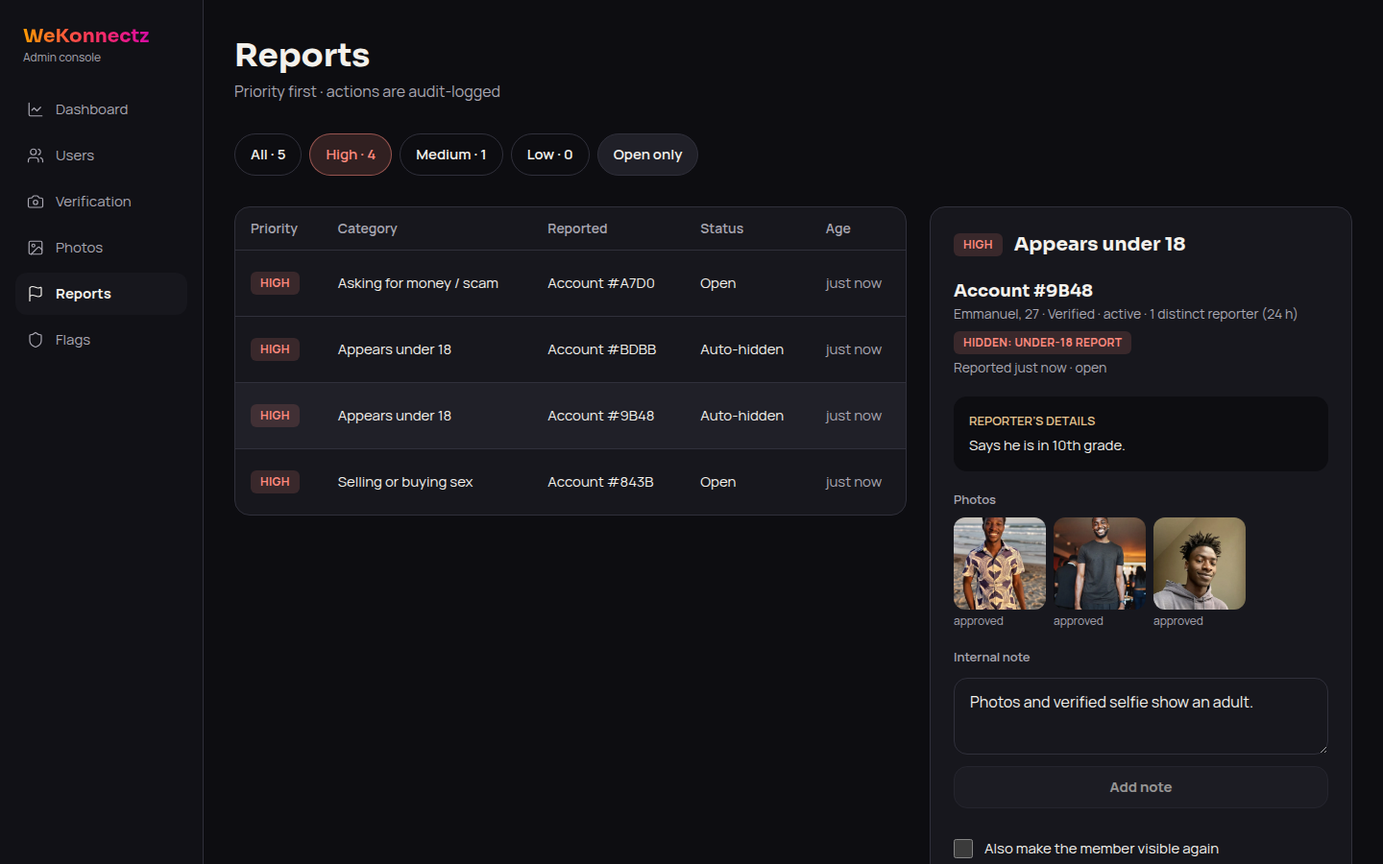
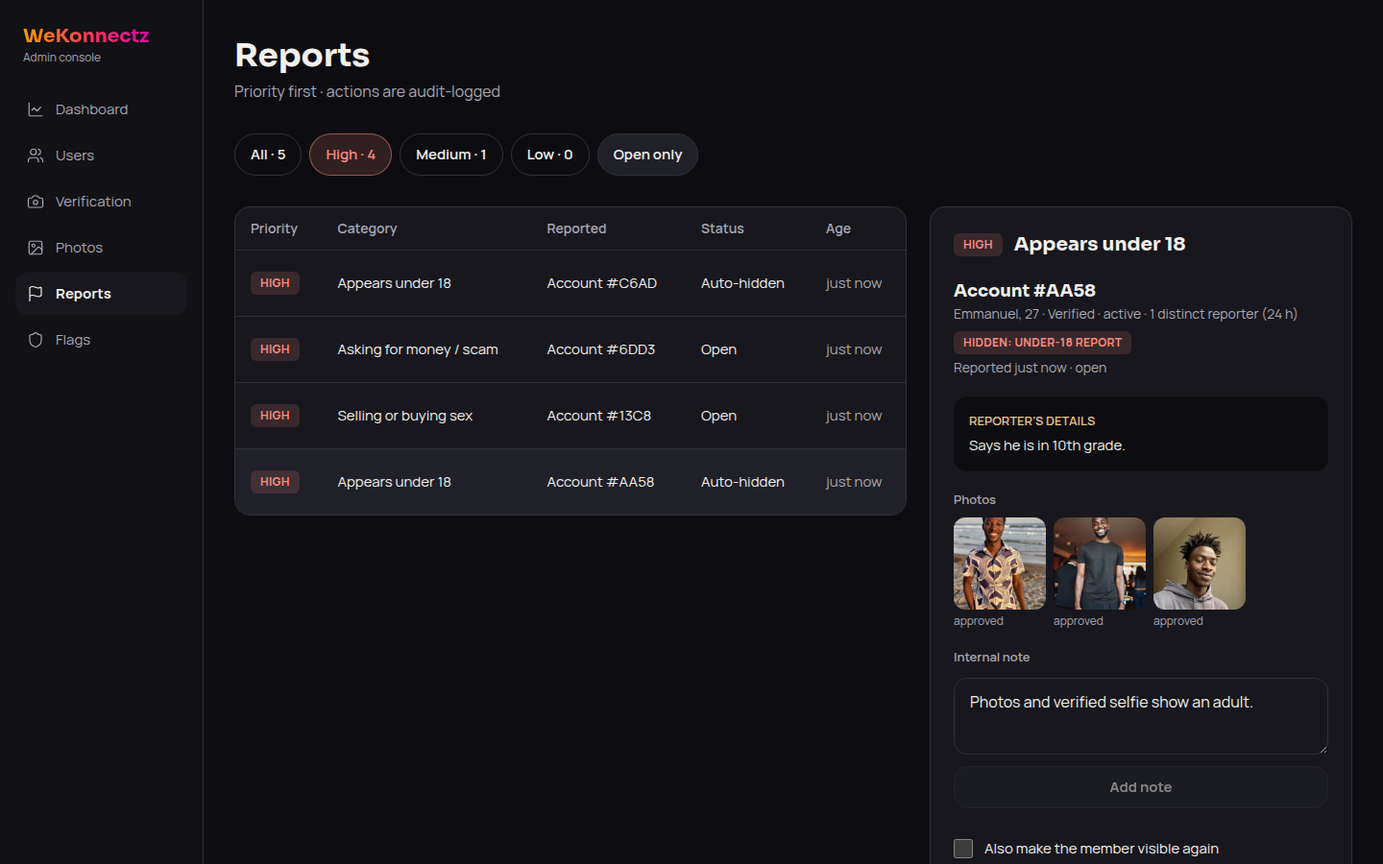
Phase 5: fix self-audit round 2
Blocks allowed for any member again (visibility recorded for the report path);
reported main photo kept as main while its report is open; reports and notes
survive account deletion; member filter in SQL; profile refresh after a report.

Claude-Session: https://claude.ai/code/session_01RWv5U5Jeaj4LAzyACAoRM2

diff --git a/lib/supabase/database.types.ts b/lib/supabase/database.types.ts
@@ -77,13 +77,13 @@ export type Database = {
                   ]
                 },"blocks": {
                   Row: {
-                    "blocked_id": string,"blocker_id": string,"created_at": string,"id": string
+                    "blocked_id": string,"blocker_id": string,"created_at": string,"id": string,"target_visible": boolean
                   }
                   Insert: {
-                    "blocked_id": string,"blocker_id": string,"created_at"?: string,"id"?: string
+                    "blocked_id": string,"blocker_id": string,"created_at"?: string,"id"?: string,"target_visible"?: boolean
                   }
                   Update: {
-                    "blocked_id"?: string,"blocker_id"?: string,"created_at"?: string,"id"?: string
+                    "blocked_id"?: string,"blocker_id"?: string,"created_at"?: string,"id"?: string,"target_visible"?: boolean
                   }
                   Relationships: [
                     {
@@ -299,13 +299,13 @@ isOneToOne: true
                   ]
                 },"report_notes": {
                   Row: {
-                    "author_id": string,"created_at": string,"id": string,"note": string,"report_id": string
+                    "author_id": string | null,"created_at": string,"id": string,"note": string,"report_id": string
                   }
                   Insert: {
-                    "author_id": string,"created_at"?: string,"id"?: string,"note": string,"report_id": string
+                    "author_id"?: string | null,"created_at"?: string,"id"?: string,"note": string,"report_id": string
                   }
                   Update: {
-                    "author_id"?: string,"created_at"?: string,"id"?: string,"note"?: string,"report_id"?: string
+                    "author_id"?: string | null,"created_at"?: string,"id"?: string,"note"?: string,"report_id"?: string
                   }
                   Relationships: [
                     {
@@ -324,13 +324,13 @@ isOneToOne: false
                   ]
                 },"reports": {
                   Row: {
-                    "category": Database["public"]['Enums']["report_category"],"created_at": string,"description": string | null,"id": string,"photo_id": string | null,"priority": Database["public"]['Enums']["report_priority"],"reported_user_id": string,"reporter_id": string,"reviewed_at": string | null,"reviewed_by": string | null,"status": Database["public"]['Enums']["report_status"]
+                    "category": Database["public"]['Enums']["report_category"],"created_at": string,"description": string | null,"id": string,"photo_id": string | null,"priority": Database["public"]['Enums']["report_priority"],"reported_user_id": string,"reporter_id": string | null,"reviewed_at": string | null,"reviewed_by": string | null,"status": Database["public"]['Enums']["report_status"]
                   }
                   Insert: {
-                    "category": Database["public"]['Enums']["report_category"],"created_at"?: string,"description"?: string | null,"id"?: string,"photo_id"?: string | null,"priority": Database["public"]['Enums']["report_priority"],"reported_user_id": string,"reporter_id": string,"reviewed_at"?: string | null,"reviewed_by"?: string | null,"status"?: Database["public"]['Enums']["report_status"]
+                    "category": Database["public"]['Enums']["report_category"],"created_at"?: string,"description"?: string | null,"id"?: string,"photo_id"?: string | null,"priority": Database["public"]['Enums']["report_priority"],"reported_user_id": string,"reporter_id"?: string | null,"reviewed_at"?: string | null,"reviewed_by"?: string | null,"status"?: Database["public"]['Enums']["report_status"]
                   }
                   Update: {
-                    "category"?: Database["public"]['Enums']["report_category"],"created_at"?: string,"description"?: string | null,"id"?: string,"photo_id"?: string | null,"priority"?: Database["public"]['Enums']["report_priority"],"reported_user_id"?: string,"reporter_id"?: string,"reviewed_at"?: string | null,"reviewed_by"?: string | null,"status"?: Database["public"]['Enums']["report_status"]
+                    "category"?: Database["public"]['Enums']["report_category"],"created_at"?: string,"description"?: string | null,"id"?: string,"photo_id"?: string | null,"priority"?: Database["public"]['Enums']["report_priority"],"reported_user_id"?: string,"reporter_id"?: string | null,"reviewed_at"?: string | null,"reviewed_by"?: string | null,"status"?: Database["public"]['Enums']["report_status"]
                   }
                   Relationships: [
                     {
@@ -689,7 +689,7 @@ isOneToOne: false
 { Args: { "p_report_id": string }; Returns: Json
                            },
 "staff_reports_queue":
-{ Args: { "p_include_closed"?: boolean,"p_limit"?: number }; Returns: {
+{ Args: { "p_include_closed"?: boolean,"p_limit"?: number,"p_member"?: string }; Returns: {
               "category": Database["public"]['Enums']["report_category"],"created_at": string,"priority": Database["public"]['Enums']["report_priority"],"report_id": string,"reported_user_id": string,"reporters_24h": number,"status": Database["public"]['Enums']["report_status"],"target_hidden": string
             }[]
                            },

diff --git a/components/member/profile-safety.tsx b/components/member/profile-safety.tsx
@@ -1,6 +1,7 @@
 "use client";
 
 import { useActionState, useState, useTransition } from "react";
+import { useRouter } from "next/navigation";
 import { Ban, Flag } from "lucide-react";
 
 import { FormError } from "@/components/layout/mobile-screen";
@@ -28,6 +29,7 @@ function ProfileSafety({
   report: (prev: ReportState, formData: FormData) => Promise<ReportState>;
   block: (targetId: string) => Promise<{ error?: string }>;
 }) {
+  const router = useRouter();
   const [reportOpen, setReportOpen] = useState(false);
   const [reportDone, setReportDone] = useState(false);
   const [opened, setOpened] = useState(0);
@@ -70,7 +72,11 @@ function ProfileSafety({
 
       <Sheet
         open={reportOpen}
-        onOpenChange={setReportOpen}
+        onOpenChange={(open) => {
+          setReportOpen(open);
+          // A report may have hidden the member or a photo: show the profile as it now is.
+          if (!open && reportDone) router.refresh();
+        }}
         title={reportDone ? "Thanks for telling us" : `Report ${name}`}
         description={
           reportDone
@@ -89,7 +95,13 @@ function ProfileSafety({
             >
               Also block {name}
             </Button>
-            <Button variant="outline" onClick={() => setReportOpen(false)}>
+            <Button
+              variant="outline"
+              onClick={() => {
+                setReportOpen(false);
+                router.refresh();
+              }}
+            >
               Done
             </Button>
           </div>

diff --git a/tests/e2e/safety.mobile.spec.ts b/tests/e2e/safety.mobile.spec.ts
@@ -92,6 +92,10 @@ test("BR-32: an under-18 report removes the member from view at once; an inappro
   await expect(page.getByRole("dialog", { name: "Thanks for telling us" })).toBeVisible();
   const { data: hidden } = await admin.from("users").select("hidden_reason, status").eq("id", joseph.userId).single();
   expect(hidden).toEqual({ hidden_reason: "UNDER_18_REPORT", status: "ACTIVE" });
+  // BR-24: the reporter can still block the member their report just hid.
+  await page.getByRole("button", { name: "Also block Joseph" }).click();
+  await page.getByRole("button", { name: "Block", exact: true }).click();
+  await expect(page).toHaveURL(/\/home\?blocked=1$/);
   expect((await page.goto(`/m/${joseph.userId}`))?.status()).toBe(404);
 
   await page.goto(`/m/${varney.userId}`);
@@ -101,6 +105,9 @@ test("BR-32: an under-18 report removes the member from view at once; an inappro
   await page.getByRole("radio", { name: "Photo 2" }).check();
   await page.getByRole("button", { name: "Send report" }).click();
   await expect(page.getByRole("dialog", { name: "Thanks for telling us" })).toBeVisible();
+  await page.getByRole("button", { name: "Done" }).click();
+  // The profile refreshes without the hidden photo.
+  await expect(page.getByRole("img", { name: /Varney’s/ })).toHaveCount(2);
   const { data: photo } = await admin.from("profile_photos").select("status").eq("id", varney.photoIds[1]).single();
   expect(photo?.status).toBe("HIDDEN");
   await page.goto(`/m/${varney.userId}`);

diff --git a/app/admin/(console)/reports/page.tsx b/app/admin/(console)/reports/page.tsx
@@ -64,8 +64,9 @@ export default async function ReportsPage({ searchParams }: PageProps<"/admin/re
   const { data: rows, error: queueError } = await supabase.rpc("staff_reports_queue", {
     p_include_closed: includeClosed,
     p_limit: 200,
+    p_member: memberId,
   });
-  const all = (queueError ? [] : (rows ?? [])).filter((r) => !memberId || r.reported_user_id === memberId);
+  const all = queueError ? [] : (rows ?? []);
   const shown = priority ? all.filter((r) => r.priority === priority) : all;
 
   const href = (next: { priority?: ReportPriority | null; closed?: boolean; id?: string }) => {

diff --git a/docs/DECISIONS.md b/docs/DECISIONS.md
@@ -25,41 +25,41 @@ open item. Resolved items record the date and the reason. New items continue the
 
 ## Open
 
-| ID    | Decision                                                                                                                                                                                                                                                             | Recommendation                                           | Needed by           |
-| ----- | -------------------------------------------------------------------------------------------------------------------------------------------------------------------------------------------------------------------------------------------------------------------- | -------------------------------------------------------- | ------------------- |
-| OD-1  | Price of every plan (mobile money and card)                                                                                                                                                                                                                          | —                                                        | Phase 7             |
-| OD-2  | Currency: USD, LRD or both                                                                                                                                                                                                                                           | Match what the merchant wallets collect                  | Phase 7             |
-| OD-4  | Card processor                                                                                                                                                                                                                                                       | Research per §16                                         | Phase 7c            |
-| OD-5  | ID document check before Casual eligibility                                                                                                                                                                                                                          | Yes (adds scope to Phase 4)                              | Phase 4             |
-| OD-6  | Verification selfie retention                                                                                                                                                                                                                                        | Delete 90 days after approval                            | Phase 4             |
-| OD-7  | Data retention after account deletion                                                                                                                                                                                                                                | Grace period, then purge; keep payment and audit records | Phase 10            |
-| OD-8  | Availability window max length / lead time                                                                                                                                                                                                                           | 12 hours / 7 days                                        | Phase 8             |
-| OD-9  | Message request daily cap and decline cool-down                                                                                                                                                                                                                      | —                                                        | Phase 9             |
-| OD-10 | Daily like cap for Relationship                                                                                                                                                                                                                                      | —                                                        | Phase 6             |
-| OD-13 | Refund policy                                                                                                                                                                                                                                                        | —                                                        | Phase 7             |
-| OD-15 | Offer Monthly on card as well as Weekly                                                                                                                                                                                                                              | Yes                                                      | Phase 7c            |
-| OD-16 | Claim review turnaround shown to members; staff review hours                                                                                                                                                                                                         | Publish fixed review hours                               | Phase 7             |
-| OD-17 | Under- or over-payment handling                                                                                                                                                                                                                                      | Reject with reason; refund manually                      | Phase 7             |
-| OD-18 | Payment screenshot retention                                                                                                                                                                                                                                         | Delete 90 days after decision; keep claim record         | Phase 7             |
-| OD-19 | Card subscription during an active mobile money pass                                                                                                                                                                                                                 | Allow; runs concurrently; warn member                    | Phase 7c            |
-| OD-20 | Grace period after failed card renewal                                                                                                                                                                                                                               | Short, e.g. 48 hours                                     | Phase 7c            |
-| OD-21 | Maximum pending claims per member                                                                                                                                                                                                                                    | 2                                                        | Phase 7             |
-| OD-22 | Can members add a reference note to Orange / MTN payments? [VERIFY]                                                                                                                                                                                                  | Check with providers                                     | Phase 7             |
-| OD-33 | Audit action for viewing reported message text (from OD-26). §18's action list has no such action.                                                                                                                                                                   | Add `REPORTED_MESSAGES_VIEWED` to the audit enum         | Phase 6 (messages)  |
-| Q13   | Can members change their phone number? Spec silent. Phase 1 blocks all phone changes (DB trigger + SMS hook) because a change would bypass BR-2/BR-3.                                                                                                                | No changes in MVP; support handles it                    | Future phase (T-26) |
-| Q14   | Gender options. Spec says "gender" and "interested in (one or more genders)" without a list; the mock-up shows Woman / Man. Built: Woman / Man (enum, easy to extend).                                                                                               | Keep Woman / Man for MVP                                 | Phase 2 sign-off    |
-| Q15   | Is the bio required? Spec: "Up to 500 characters". Built: optional (0–500).                                                                                                                                                                                          | Optional                                                 | Phase 2 sign-off    |
-| Q16   | Display-name rules. Built: 2–30 characters, letters with spaces, apostrophes and hyphens; same contact/price check as bios.                                                                                                                                          | Keep                                                     | Phase 2 sign-off    |
-| Q17   | Photo rejection reasons. Built from the §11 content rules: face not clear (main photo), nudity or sexual, text/numbers/handles, child in photo, not the member, poor quality. Members see neutral wording.                                                           | Keep                                                     | Phase 3 sign-off    |
-| Q18   | When is the photos step done? Built: 3 photos uploaded and not rejected (in review counts), so members aren't stuck waiting; ACTIVE still needs 3 APPROVED (Phase 4, BR-8).                                                                                          | Keep                                                     | Phase 3 sign-off    |
-| Q19   | Main photo re-check. Built: a photo approved as a secondary photo goes back to review when the member makes it the main photo (§11: the main photo must clearly show the face).                                                                                      | Keep                                                     | Phase 3 sign-off    |
-| Q20   | Selfie rejection reasons. Built from the §9 checks: pose doesn't match, not the same person as the photos, may be under 18 (escalates), photo of a screen or printout, face unclear. Members see neutral wording.                                                    | Keep                                                     | Phase 4 sign-off    |
-| Q21   | Escalated selfies (after N rejections or any doubt about age) are visible to moderators but only ADMIN and above can approve or reject them.                                                                                                                         | Keep                                                     | Phase 4 sign-off    |
-| Q22   | Once ACTIVE, a member who later has a photo rejected stays ACTIVE (spec §11: they leave discovery while under 3 approved photos; the account state doesn't change). Built that way.                                                                                  | Keep                                                     | Phase 4 sign-off    |
-| Q23   | [VERIFY] "Doubt about age → reject and escalate" (§9). Built (Phase 4 + 5): the rejection is recorded, the next selfie can only be decided by an ADMIN, and an `AGE_DOUBT` flag goes to the Flags queue at once, where staff can suspend or (admin) ban.             | Keep                                                     | Phase 5 sign-off    |
-| Q24   | Spec §17 says most report categories "Flag". Built: every report is itself an item in the priority-sorted Reports queue; the Flags queue gets a `MANY_REPORTS` flag when distinct reporters reach the threshold.                                                     | Keep                                                     | Phase 5 sign-off    |
-| Q25   | Who can report and block. Built: only verified ACTIVE members report (not PENDING or suspended accounts — stops cheap unverified accounts from hiding people); members block only someone they can see; one open report per reporter, member and category.           | Keep                                                     | Phase 5 sign-off    |
-| Q26   | A member hidden by reports (under-18 or threshold) also can't browse or contact others until staff review.                                                                                                                                                           | Keep                                                     | Phase 5 sign-off    |
-| Q27   | Suspensions: moderators choose 1, 3, 7 or 30 days and can only make a suspension longer; only admins lift a suspension, ban or lift a ban. Ban reasons: under 18, selling/buying sex, scam or fraud, threats or harassment, fake identity, repeated rule violations. | Keep                                                     | Phase 5 sign-off    |
-| Q28   | Lifting a ban returns the account to PENDING (it is ACTIVE again only if still verified with 3 approved photos), removes the phone from the blocklist and keeps any report hide for review.                                                                          | Keep                                                     | Phase 5 sign-off    |
-| T-19  | Threshold and limit values (see `docs/progress/OWNER_TASKS.md`), incl. the OD-30 manual-extension cap                                                                                                                                                                | Owner reviewing                                          | Per row             |
+| ID    | Decision                                                                                                                                                                                                                                                                                                                                                                                                                                        | Recommendation                                           | Needed by           |
+| ----- | ----------------------------------------------------------------------------------------------------------------------------------------------------------------------------------------------------------------------------------------------------------------------------------------------------------------------------------------------------------------------------------------------------------------------------------------------- | -------------------------------------------------------- | ------------------- |
+| OD-1  | Price of every plan (mobile money and card)                                                                                                                                                                                                                                                                                                                                                                                                     | —                                                        | Phase 7             |
+| OD-2  | Currency: USD, LRD or both                                                                                                                                                                                                                                                                                                                                                                                                                      | Match what the merchant wallets collect                  | Phase 7             |
+| OD-4  | Card processor                                                                                                                                                                                                                                                                                                                                                                                                                                  | Research per §16                                         | Phase 7c            |
+| OD-5  | ID document check before Casual eligibility                                                                                                                                                                                                                                                                                                                                                                                                     | Yes (adds scope to Phase 4)                              | Phase 4             |
+| OD-6  | Verification selfie retention                                                                                                                                                                                                                                                                                                                                                                                                                   | Delete 90 days after approval                            | Phase 4             |
+| OD-7  | Data retention after account deletion                                                                                                                                                                                                                                                                                                                                                                                                           | Grace period, then purge; keep payment and audit records | Phase 10            |
+| OD-8  | Availability window max length / lead time                                                                                                                                                                                                                                                                                                                                                                                                      | 12 hours / 7 days                                        | Phase 8             |
+| OD-9  | Message request daily cap and decline cool-down                                                                                                                                                                                                                                                                                                                                                                                                 | —                                                        | Phase 9             |
+| OD-10 | Daily like cap for Relationship                                                                                                                                                                                                                                                                                                                                                                                                                 | —                                                        | Phase 6             |
+| OD-13 | Refund policy                                                                                                                                                                                                                                                                                                                                                                                                                                   | —                                                        | Phase 7             |
+| OD-15 | Offer Monthly on card as well as Weekly                                                                                                                                                                                                                                                                                                                                                                                                         | Yes                                                      | Phase 7c            |
+| OD-16 | Claim review turnaround shown to members; staff review hours                                                                                                                                                                                                                                                                                                                                                                                    | Publish fixed review hours                               | Phase 7             |
+| OD-17 | Under- or over-payment handling                                                                                                                                                                                                                                                                                                                                                                                                                 | Reject with reason; refund manually                      | Phase 7             |
+| OD-18 | Payment screenshot retention                                                                                                                                                                                                                                                                                                                                                                                                                    | Delete 90 days after decision; keep claim record         | Phase 7             |
+| OD-19 | Card subscription during an active mobile money pass                                                                                                                                                                                                                                                                                                                                                                                            | Allow; runs concurrently; warn member                    | Phase 7c            |
+| OD-20 | Grace period after failed card renewal                                                                                                                                                                                                                                                                                                                                                                                                          | Short, e.g. 48 hours                                     | Phase 7c            |
+| OD-21 | Maximum pending claims per member                                                                                                                                                                                                                                                                                                                                                                                                               | 2                                                        | Phase 7             |
+| OD-22 | Can members add a reference note to Orange / MTN payments? [VERIFY]                                                                                                                                                                                                                                                                                                                                                                             | Check with providers                                     | Phase 7             |
+| OD-33 | Audit action for viewing reported message text (from OD-26). §18's action list has no such action.                                                                                                                                                                                                                                                                                                                                              | Add `REPORTED_MESSAGES_VIEWED` to the audit enum         | Phase 6 (messages)  |
+| Q13   | Can members change their phone number? Spec silent. Phase 1 blocks all phone changes (DB trigger + SMS hook) because a change would bypass BR-2/BR-3.                                                                                                                                                                                                                                                                                           | No changes in MVP; support handles it                    | Future phase (T-26) |
+| Q14   | Gender options. Spec says "gender" and "interested in (one or more genders)" without a list; the mock-up shows Woman / Man. Built: Woman / Man (enum, easy to extend).                                                                                                                                                                                                                                                                          | Keep Woman / Man for MVP                                 | Phase 2 sign-off    |
+| Q15   | Is the bio required? Spec: "Up to 500 characters". Built: optional (0–500).                                                                                                                                                                                                                                                                                                                                                                     | Optional                                                 | Phase 2 sign-off    |
+| Q16   | Display-name rules. Built: 2–30 characters, letters with spaces, apostrophes and hyphens; same contact/price check as bios.                                                                                                                                                                                                                                                                                                                     | Keep                                                     | Phase 2 sign-off    |
+| Q17   | Photo rejection reasons. Built from the §11 content rules: face not clear (main photo), nudity or sexual, text/numbers/handles, child in photo, not the member, poor quality. Members see neutral wording.                                                                                                                                                                                                                                      | Keep                                                     | Phase 3 sign-off    |
+| Q18   | When is the photos step done? Built: 3 photos uploaded and not rejected (in review counts), so members aren't stuck waiting; ACTIVE still needs 3 APPROVED (Phase 4, BR-8).                                                                                                                                                                                                                                                                     | Keep                                                     | Phase 3 sign-off    |
+| Q19   | Main photo re-check. Built: a photo approved as a secondary photo goes back to review when the member makes it the main photo (§11: the main photo must clearly show the face).                                                                                                                                                                                                                                                                 | Keep                                                     | Phase 3 sign-off    |
+| Q20   | Selfie rejection reasons. Built from the §9 checks: pose doesn't match, not the same person as the photos, may be under 18 (escalates), photo of a screen or printout, face unclear. Members see neutral wording.                                                                                                                                                                                                                               | Keep                                                     | Phase 4 sign-off    |
+| Q21   | Escalated selfies (after N rejections or any doubt about age) are visible to moderators but only ADMIN and above can approve or reject them.                                                                                                                                                                                                                                                                                                    | Keep                                                     | Phase 4 sign-off    |
+| Q22   | Once ACTIVE, a member who later has a photo rejected stays ACTIVE (spec §11: they leave discovery while under 3 approved photos; the account state doesn't change). Built that way.                                                                                                                                                                                                                                                             | Keep                                                     | Phase 4 sign-off    |
+| Q23   | [VERIFY] "Doubt about age → reject and escalate" (§9). Built (Phase 4 + 5): the rejection is recorded, the next selfie can only be decided by an ADMIN, and an `AGE_DOUBT` flag goes to the Flags queue at once, where staff can suspend or (admin) ban.                                                                                                                                                                                        | Keep                                                     | Phase 5 sign-off    |
+| Q24   | Spec §17 says most report categories "Flag". Built: every report is itself an item in the priority-sorted Reports queue; the Flags queue gets a `MANY_REPORTS` flag when distinct reporters reach the threshold.                                                                                                                                                                                                                                | Keep                                                     | Phase 5 sign-off    |
+| Q25   | Who can report and block. Built: only verified ACTIVE members report (not PENDING or suspended accounts — stops cheap unverified accounts from hiding people); any member can block anyone, but a block made while the other member was invisible doesn't let them report; one open report per reporter, member and category. Revisit in Phase 6/8: a suspended member can still read messages (§8) and may need to report from a conversation. | Keep                                                     | Phase 5 sign-off    |
+| Q26   | A member hidden by reports (under-18 or threshold) also can't browse or contact others until staff review.                                                                                                                                                                                                                                                                                                                                      | Keep                                                     | Phase 5 sign-off    |
+| Q27   | Suspensions: moderators choose 1, 3, 7 or 30 days and can only make a suspension longer; only admins lift a suspension, ban or lift a ban. Ban reasons: under 18, selling/buying sex, scam or fraud, threats or harassment, fake identity, repeated rule violations.                                                                                                                                                                            | Keep                                                     | Phase 5 sign-off    |
+| Q28   | Lifting a ban returns the account to PENDING (it is ACTIVE again only if still verified with 3 approved photos), removes the phone from the blocklist and keeps any report hide for review.                                                                                                                                                                                                                                                     | Keep                                                     | Phase 5 sign-off    |
+| T-19  | Threshold and limit values (see `docs/progress/OWNER_TASKS.md`), incl. the OD-30 manual-extension cap                                                                                                                                                                                                                                                                                                                                           | Owner reviewing                                          | Per row             |

diff --git a/docs/sprints/SPRINT-05.md b/docs/sprints/SPRINT-05.md
@@ -1,0 +1,33 @@
+# Sprint 05 — Safety core
+
+**Goal:** members can report and block from any profile in two taps; staff work a priority-sorted Reports queue and a Flags queue; suspend, ban and restore are role-checked and audited.
+
+## Scope
+
+- `blocks` (silent, symmetric through `can_view_profile`), member profile view (member mock-up 04) with report and block sheets, Blocked members list with unblock.
+- `reports` with the §17 categories and priorities; automatic actions: under-18 hides at once (BR-32), HIGH categories hide at the distinct-reporter threshold within 24 h (BR-33), inappropriate photo hides that photo.
+- `report_notes`; Reports queue (admin mock-up 03): filters, detail with photos and the reporter's details (never the reporter), notes, dismiss / resolve, photo decision, make visible again.
+- `moderation_flags`: `MANY_REPORTS` (threshold) and `AGE_DOUBT` (Q23); Flags queue with account actions.
+- Suspension as an overlay on PENDING / ACTIVE (fixes the Phase 4 finding: an expired suspension returns the account to its real status). Suspend (moderator, only lengthens), ban and lift (admin), phone blocklist on ban (BR-3, BR-6).
+- Dashboard counts for reports and flags.
+
+## Out of scope
+
+Reporting from conversations and reported-message access (Phase 6, OD-26 / OD-33); hiding from availability (Phase 8); burst, duplicate-text and short-window signals (Phases 8–9); the Users page (Phase 10).
+
+## Acceptance checklist
+
+- [x] Blocks hide both ways and are never revealed (BR-24, pgTAP + e2e)
+- [x] Under-18 report hides immediately (BR-32, pgTAP + e2e)
+- [x] Threshold hide counts distinct reporters with open HIGH reports in 24 h; dismissed reports never count again (BR-33, pgTAP)
+- [x] Inappropriate-photo report hides that photo; the member can't delete it before review (pgTAP + e2e)
+- [x] Suspension blocks discovery and reporting, ends by itself back to the real status (BR-5, pgTAP + e2e)
+- [x] Ban signs out, refuses sign-in and blocks the phone; lift reverses it (BR-6, BR-3, pgTAP + e2e)
+- [x] Moderators can't ban, lift or shorten; staff can't act on staff or their own account (§7, pgTAP)
+- [x] Every staff decision audited in the same transaction, without member text (BR-34, pgTAP + e2e)
+- [ ] Owner approves `reports.auto_hide_threshold` and `reports.per_user_per_day` (T-19) and Q23–Q28
+
+## Self-audit
+
+- **Round 1** (2 HIGH, 7 MEDIUM, 6 LOW): dismissed reports still counted toward auto-hide, so a moderator's decision could be undone; unverified or suspended accounts could report by blocking first; a moderator could shorten an admin's suspension; a reported photo could be deleted before review; hiding a main photo pulled another photo back into review; ban/restore could revive a deleted account and drop a report hide; no way to unhide after a report closed; flags had no actions; partial audit metadata; plus queue flooding, hidden members browsing, sheet reset and copy. All fixed with tests.
+- **Round 2** (1 HIGH, 2 MEDIUM, 4 LOW): requiring a visible target for blocks broke "Also block" after an under-18 report and stopped members blocking hidden or suspended harassers (blocks now allowed for any member; only a block made while the target was visible opens the report path); a reported main photo could still lose main status when the member changed other photos (kept as main while its report is open); a deleted reporter account deleted their reports (now kept, reporter set to null; notes likewise); member filter moved into SQL; the profile refreshes after a report; suspended reporters recorded as an open question (Q25). Fixed with tests.
